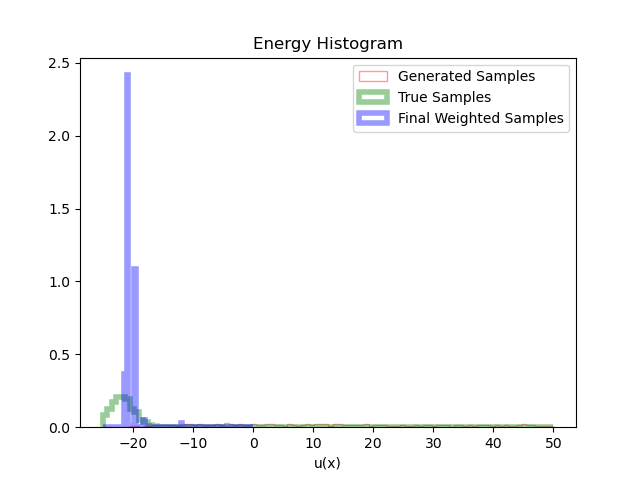
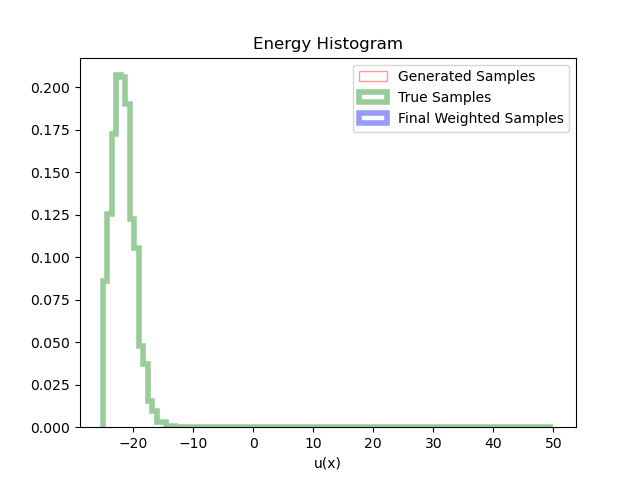
plotted with the combination loss

diff --git a/eval_and_plot.py b/eval_and_plot.py
@@ -263,6 +263,7 @@ def main():
         samples = 10000
         device = torch.device("cuda:0" if torch.cuda.is_available() else "cpu")
         latent = prior.sample(size=[samples, 4, 2], device=device)
+        lambs = [0.1, 0.3, 0.5]
         # saved_models_dir = f"{model_dir}/best_model_{args.model}/n_data_{args.n_data}"
         # saved_models_dir = os.path.join(os.getcwd(), models_path)
 
@@ -287,10 +288,11 @@ def main():
             # label = os.path.basename(model_path)[0]
             # plot_generating_flow(args, data, flow, prior, target, latent, samples, ax=ax, label=label)
         for model_name in args.model_names:       
-            model_path = f"{model_dir}/best_model_{args.model}/n_data_{args.n_data}/{model_name}_final.pth"
-            flow = load_and_test_model(args, model_path, n_particles, n_dims)
-            data, target = dw4_data_and_target()
-            plot_generating_flow(args, data, flow, prior, target, latent, samples, model_name)
+            for lamb in lambs:
+                model_path = f"{model_dir}/best_model_{args.model}/n_data_{args.n_data}/{model_name}_lamb_{lamb}.pth"
+                flow = load_and_test_model(args, model_path, n_particles, n_dims)
+                data, target = dw4_data_and_target()
+                plot_generating_flow(args, data, flow, prior, target, latent, samples, model_name)
 
             # save_best_path = f"final_generated_hists/model_{model_name}.png"
             # os.makedirs(os.path.dirname(save_best_path), exist_ok=True)
